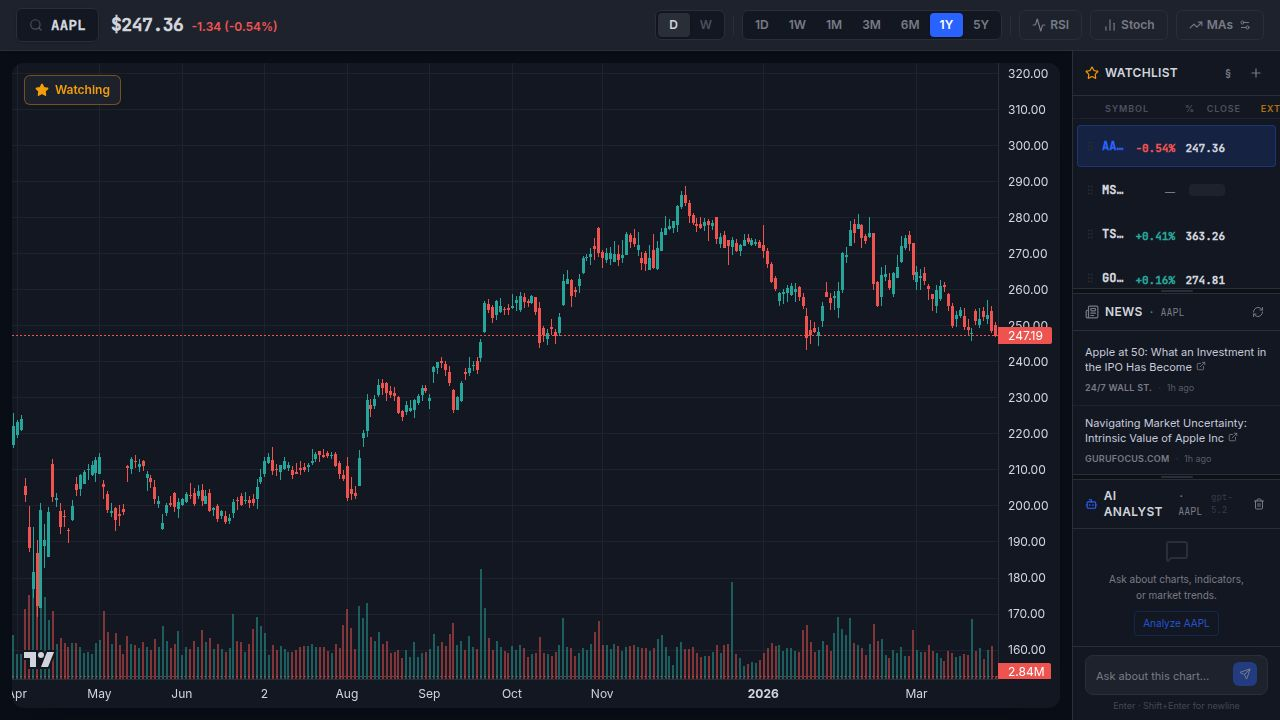
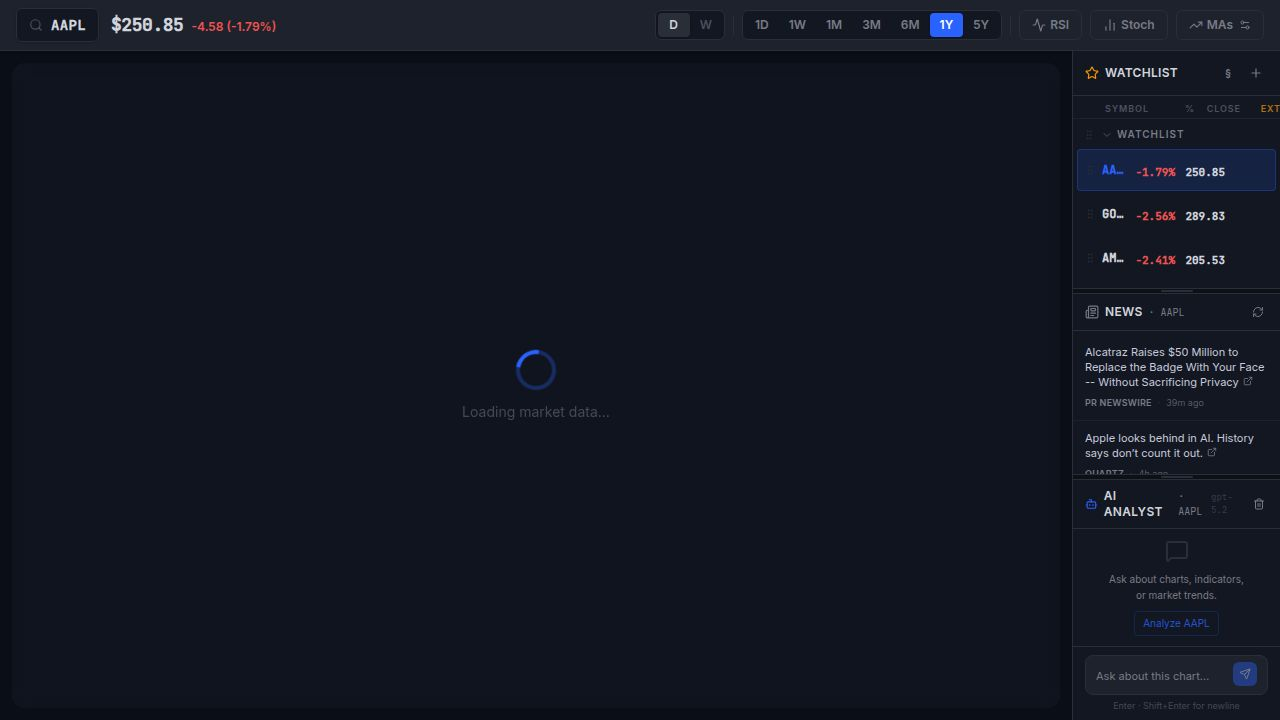
Improve chart stability by preventing unexpected errors and crashes
Wrap chart initialization in error handling, debounce ResizeObserver callbacks using requestAnimationFrame, and suppress harmless ResizeObserver loop limit errors in main.tsx.

Replit-Commit-Author: Agent
Replit-Commit-Session-Id: 6249d0ed-d24c-41b5-9698-0b4797a45a3a
Replit-Commit-Checkpoint-Type: full_checkpoint
Replit-Commit-Event-Id: 181ac40e-faba-4ca3-be80-3e716734416a
Replit-Commit-Screenshot-Url: https://storage.googleapis.com/screenshot-production-us-central1/45f25eac-8575-45c6-8bd6-987f3789ac98/6249d0ed-d24c-41b5-9698-0b4797a45a3a/ef8u1L2
Replit-Helium-Checkpoint-Created: true

diff --git a/artifacts/trading-chart/src/components/ChartWidget.tsx b/artifacts/trading-chart/src/components/ChartWidget.tsx
@@ -98,39 +98,56 @@ export function ChartWidget({
     const el = chartContainerRef.current;
     if (!el) return;
 
-    const chart = createChart(el, {
-      ...BASE_CHART_OPTIONS,
-      width: el.clientWidth,
-      height: el.clientHeight,
-    });
+    let chart: IChartApi;
+    let candle: ISeriesApi<'Candlestick'>;
+    let volume: ISeriesApi<'Histogram'>;
 
-    const candle = chart.addSeries(CandlestickSeries, {
-      upColor: '#26a69a', downColor: '#ef5350',
-      borderUpColor: '#26a69a', borderDownColor: '#ef5350',
-      wickUpColor: '#26a69a', wickDownColor: '#ef5350',
-    });
+    try {
+      chart = createChart(el, {
+        ...BASE_CHART_OPTIONS,
+        width: el.clientWidth || 600,
+        height: el.clientHeight || 400,
+      });
 
-    const volume = chart.addSeries(HistogramSeries, {
-      color: '#26a69a',
-      priceFormat: { type: 'volume' },
-      priceScaleId: 'volume',
-    });
-    safe(() => chart.priceScale('volume').applyOptions({ scaleMargins: { top: 0.8, bottom: 0 } }), 'vol-scale');
+      candle = chart.addSeries(CandlestickSeries, {
+        upColor: '#26a69a', downColor: '#ef5350',
+        borderUpColor: '#26a69a', borderDownColor: '#ef5350',
+        wickUpColor: '#26a69a', wickDownColor: '#ef5350',
+      });
+
+      volume = chart.addSeries(HistogramSeries, {
+        color: '#26a69a',
+        priceFormat: { type: 'volume' },
+        priceScaleId: 'volume',
+      });
+      safe(() => chart.priceScale('volume').applyOptions({ scaleMargins: { top: 0.8, bottom: 0 } }), 'vol-scale');
+    } catch (err) {
+      console.warn('ChartWidget [init]:', err);
+      return;
+    }
 
     mainChartRef.current = chart;
-    candleRef.current    = candle;
-    volumeRef.current    = volume;
+    candleRef.current    = candle!;
+    volumeRef.current    = volume!;
 
+    // Use requestAnimationFrame to debounce resize updates — prevents the
+    // "ResizeObserver loop limit exceeded" error that fires when applyOptions
+    // itself causes a layout change, triggering another observer callback.
+    let rafId = 0;
     const ro = new ResizeObserver(() => {
-      if (!chartContainerRef.current) return;
-      safe(() => chart.applyOptions({
-        width: chartContainerRef.current!.clientWidth,
-        height: chartContainerRef.current!.clientHeight,
-      }), 'resize');
+      cancelAnimationFrame(rafId);
+      rafId = requestAnimationFrame(() => {
+        if (!chartContainerRef.current) return;
+        safe(() => chart.applyOptions({
+          width: chartContainerRef.current!.clientWidth,
+          height: chartContainerRef.current!.clientHeight,
+        }), 'resize');
+      });
     });
     ro.observe(el);
 
     return () => {
+      cancelAnimationFrame(rafId);
       ro.disconnect();
       safe(() => chart.remove(), 'chart-remove');
       mainChartRef.current = null;
@@ -210,12 +227,17 @@ export function ChartWidget({
       safe(() => mainChart.timeScale().subscribeVisibleLogicalRangeChange(syncMain!));
       safe(() => rsiChart.timeScale().subscribeVisibleLogicalRangeChange(syncRsi!));
     }
+    let rsiRafId = 0;
     const ro = new ResizeObserver(() => {
-      if (!rsiContainerRef.current) return;
-      safe(() => rsiChart.applyOptions({ width: rsiContainerRef.current!.clientWidth, height: rsiContainerRef.current!.clientHeight }));
+      cancelAnimationFrame(rsiRafId);
+      rsiRafId = requestAnimationFrame(() => {
+        if (!rsiContainerRef.current) return;
+        safe(() => rsiChart.applyOptions({ width: rsiContainerRef.current!.clientWidth, height: rsiContainerRef.current!.clientHeight }));
+      });
     });
     ro.observe(el);
     return () => {
+      cancelAnimationFrame(rsiRafId);
       ro.disconnect();
       if (mainChart && syncMain) safe(() => mainChart.timeScale().unsubscribeVisibleLogicalRangeChange(syncMain!));
       if (syncRsi) safe(() => rsiChart.timeScale().unsubscribeVisibleLogicalRangeChange(syncRsi!));
@@ -248,12 +270,17 @@ export function ChartWidget({
       safe(() => mainChart.timeScale().subscribeVisibleLogicalRangeChange(syncMain!));
       safe(() => stochChart.timeScale().subscribeVisibleLogicalRangeChange(syncStoch!));
     }
+    let stochRafId = 0;
     const ro = new ResizeObserver(() => {
-      if (!stochContainerRef.current) return;
-      safe(() => stochChart.applyOptions({ width: stochContainerRef.current!.clientWidth, height: stochContainerRef.current!.clientHeight }));
+      cancelAnimationFrame(stochRafId);
+      stochRafId = requestAnimationFrame(() => {
+        if (!stochContainerRef.current) return;
+        safe(() => stochChart.applyOptions({ width: stochContainerRef.current!.clientWidth, height: stochContainerRef.current!.clientHeight }));
+      });
     });
     ro.observe(el);
     return () => {
+      cancelAnimationFrame(stochRafId);
       ro.disconnect();
       if (mainChart && syncMain)  safe(() => mainChart.timeScale().unsubscribeVisibleLogicalRangeChange(syncMain!));
       if (syncStoch)              safe(() => stochChart.timeScale().unsubscribeVisibleLogicalRangeChange(syncStoch!));

diff --git a/artifacts/trading-chart/src/main.tsx b/artifacts/trading-chart/src/main.tsx
@@ -2,4 +2,21 @@ import { createRoot } from "react-dom/client";
 import App from "./App";
 import "./index.css";
 
+// Suppress the "ResizeObserver loop limit exceeded" / "ResizeObserver loop
+// completed with undelivered notifications" errors that Chrome fires when a
+// ResizeObserver callback triggers a layout change (e.g. chart.applyOptions).
+// These are harmless — the browser still delivers all notifications on the
+// next frame — but they appear as "(unknown runtime error)" because Chrome
+// sets event.error = null, which makes Vite's overlay report a crash.
+window.addEventListener("error", (event) => {
+  if (
+    event.message?.includes("ResizeObserver loop") ||
+    event.message?.includes("ResizeObserver loop limit") ||
+    event.message?.includes("undelivered notifications")
+  ) {
+    event.stopImmediatePropagation();
+    event.preventDefault();
+  }
+});
+
 createRoot(document.getElementById("root")!).render(<App />);